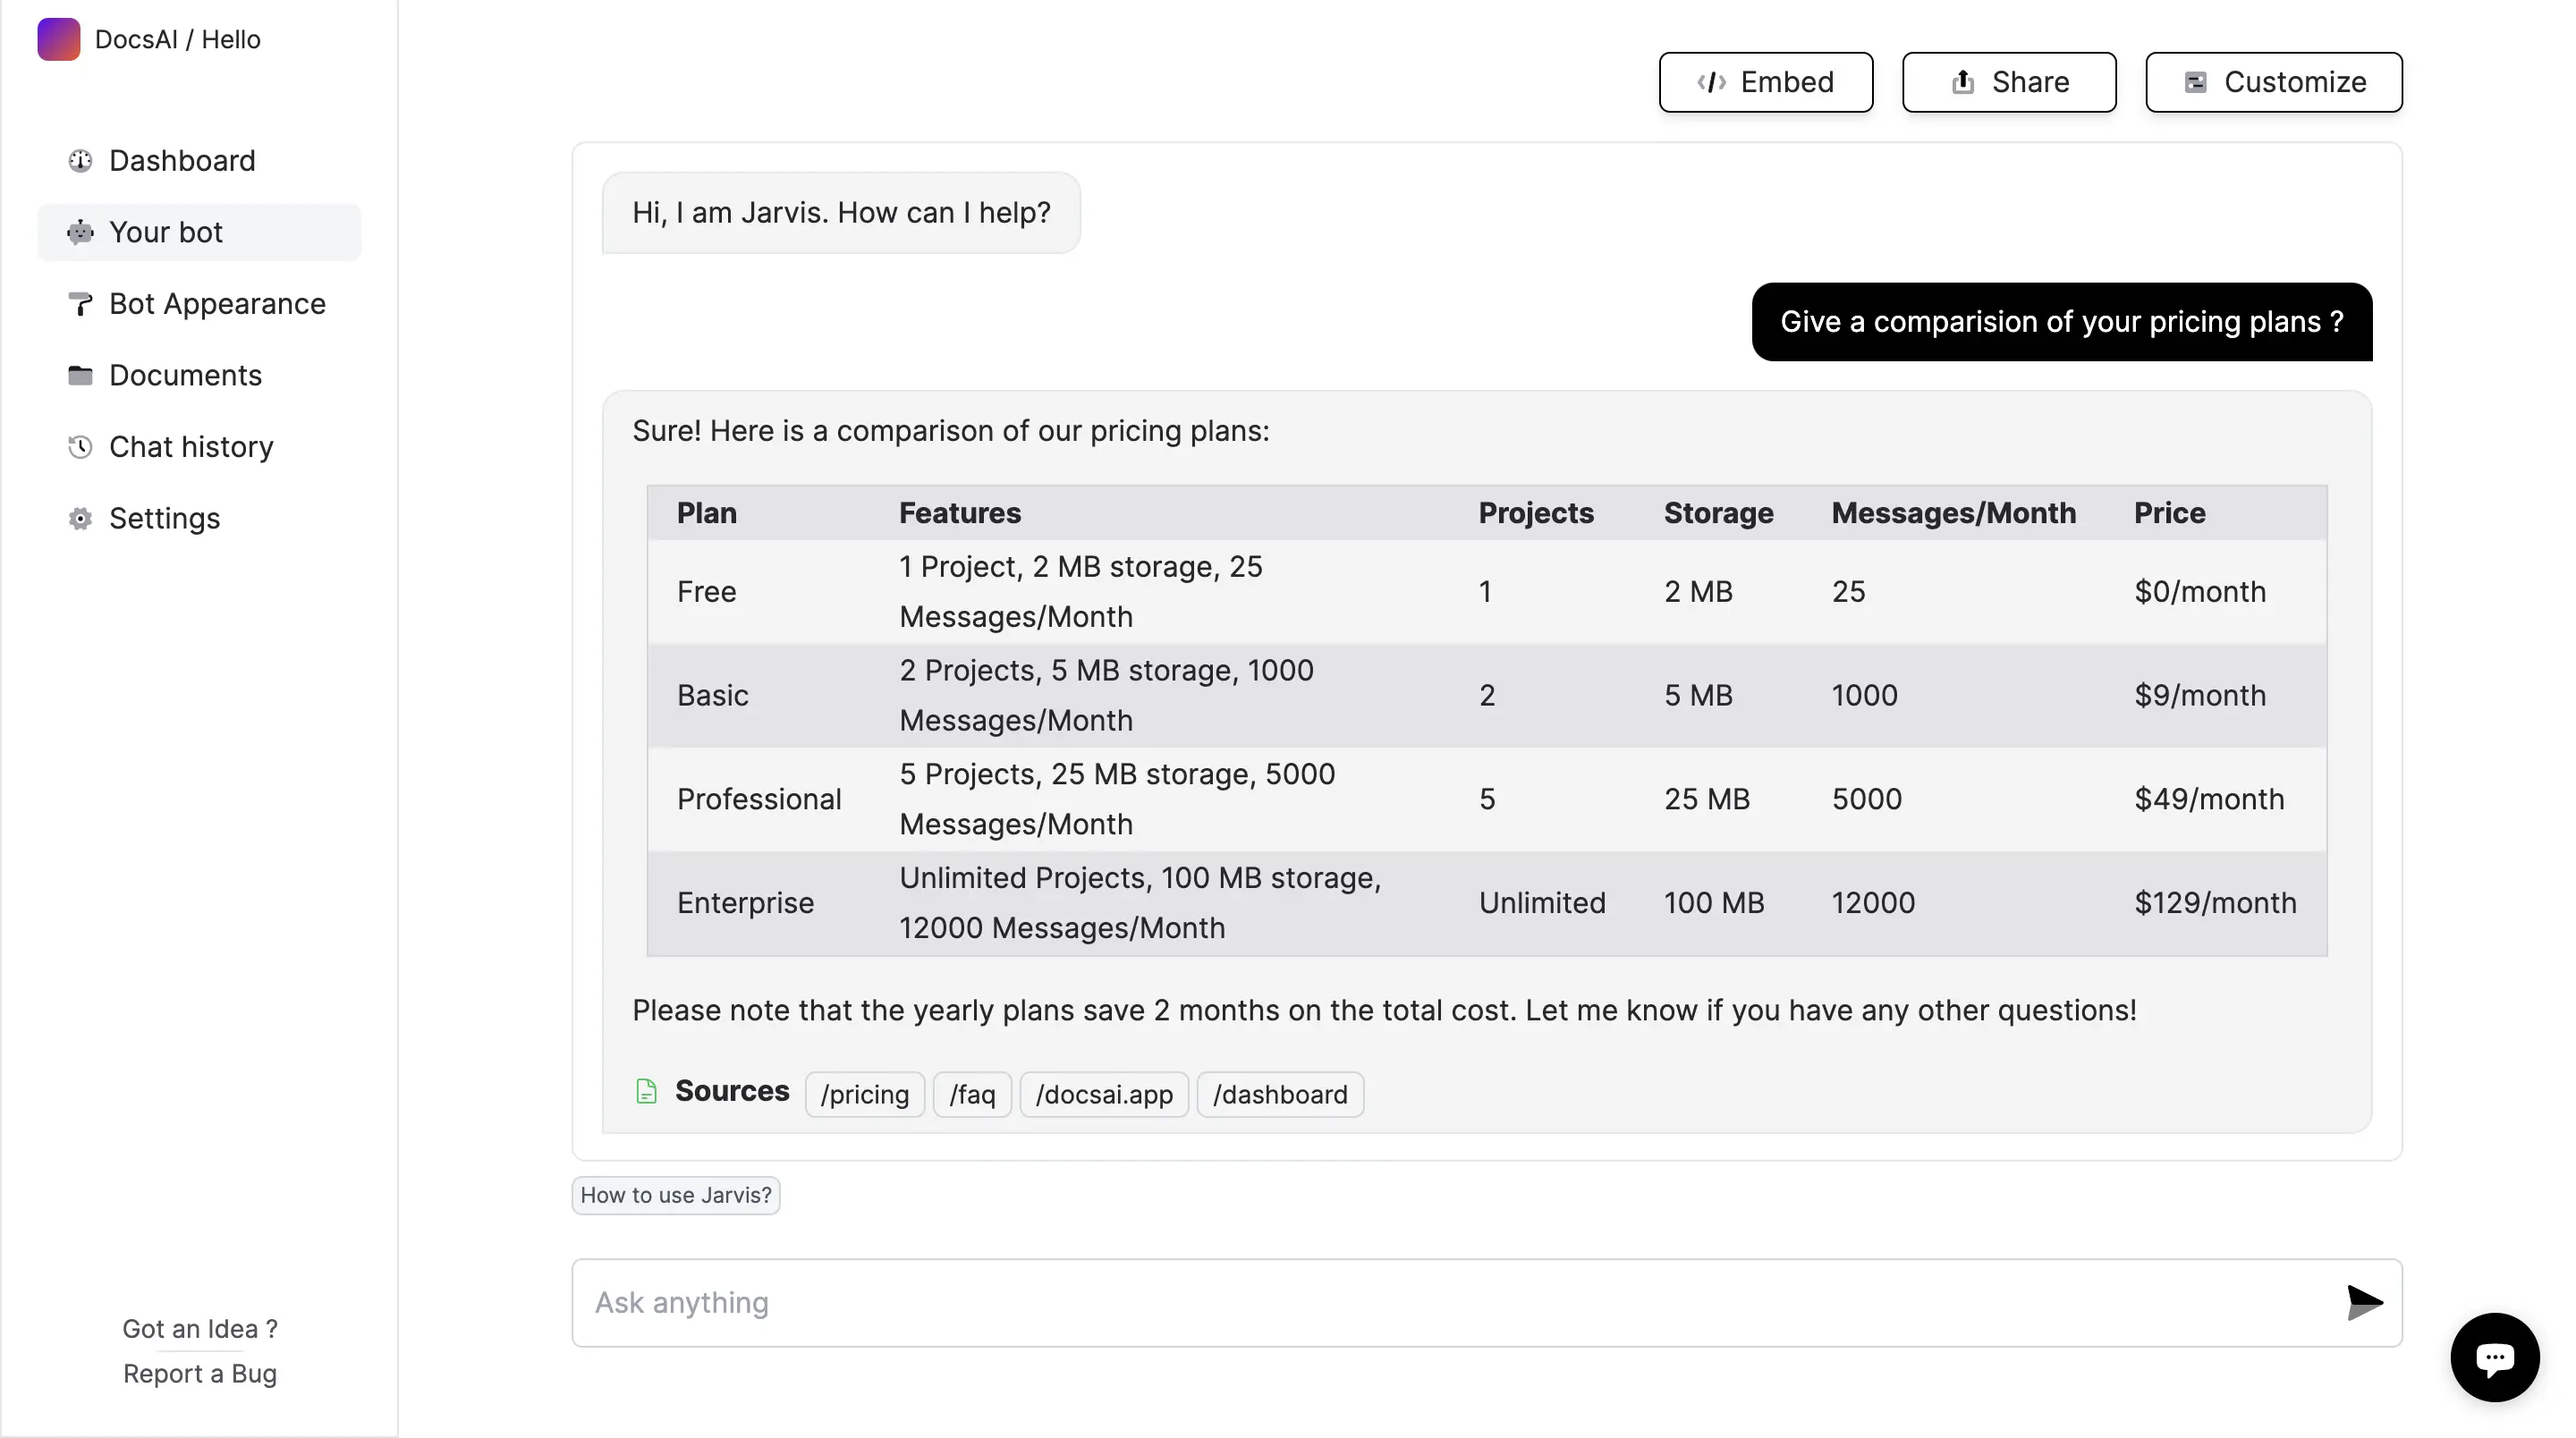
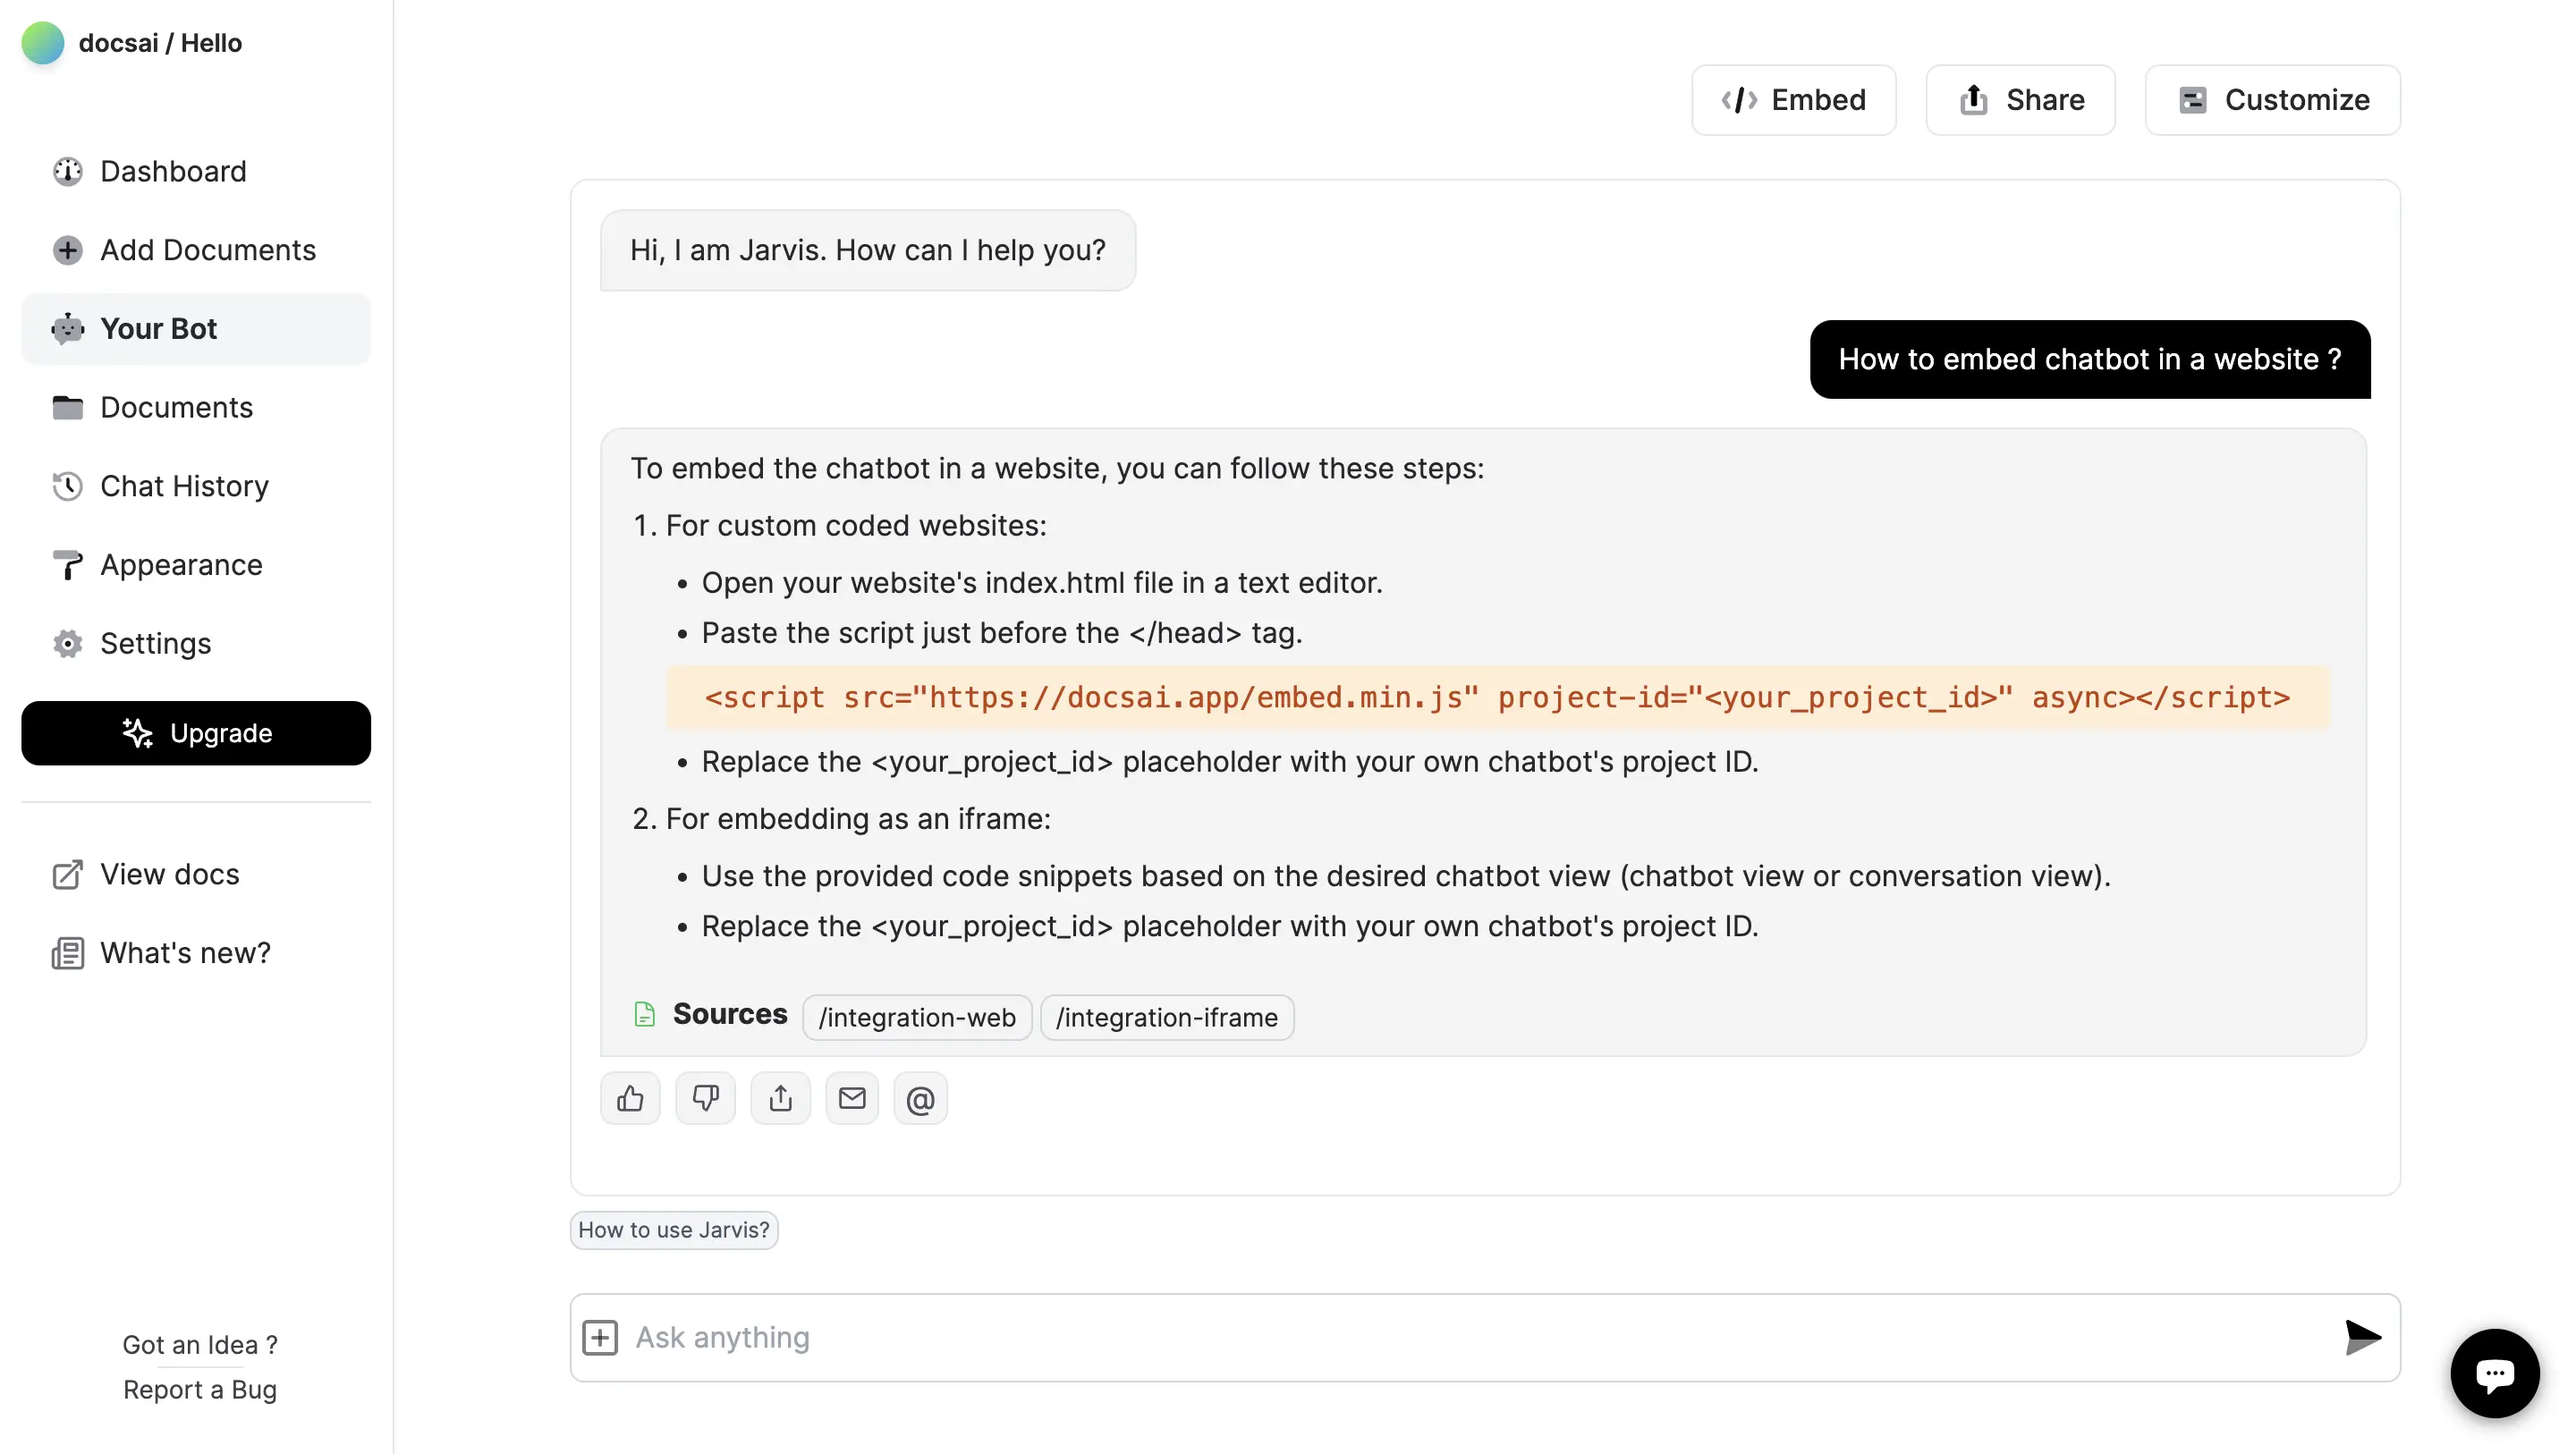
Add - Upgrade button

diff --git a/app/src/containers/Nav/AppNav.tsx b/app/src/containers/Nav/AppNav.tsx
@@ -1,10 +1,10 @@
 import { type Project, type Org } from "@prisma/client"
-import { Newspaper } from "lucide-react"
+import { Newspaper, Sparkles } from "lucide-react"
 import { type User } from "next-auth"
 import Link from "next/link"
 import { useRouter } from "next/router"
 import Avatar from "~/components/Avatar"
-import { SecondaryButton } from "~/components/form/button"
+import { CustomButton, SecondaryButton } from "~/components/form/button"
 import { IconAdd, IconBot, IconDashboard, IconFolderOpen, IconHistory, IconLink, IconPaintBrush, IconSettings, IconSubscription } from "~/components/icons/icons"
 
 /**
@@ -83,13 +83,24 @@ const AppNav: React.FC<{ user: User, org: Org, project: Project }> = ({ user, or
           </SecondaryButton>
           </Link>
 
-          <Link href={`/dashboard/${org.name}/subscription`} className="w-full" tabIndex={-1}>
-            <SecondaryButton className={`border-0  text-left w-full shadow-none  focus:bg-gray-100  flex  gap-2 items-center  `}>
-              <IconSubscription className="h-5 w-5" />
-              <span className="hidden lg:block">
-                Subscription </span>
-            </SecondaryButton>
-          </Link>
+          {
+            org.plan !== 'FREE' ?
+              <Link href={`/dashboard/${org.name}/subscription`} className="w-full mt-2" tabIndex={-1}>
+                <CustomButton className={`bg-slate-100 border text-slate-900 font-medium  text-sm w-full  text-left flex items-center gap-2`}>
+                  <Sparkles className="h-5 w-5" />
+                  <span className="hidden lg:block">
+                    View plan  </span>
+                </CustomButton>
+              </Link>
+              :
+              <Link href={`/dashboard/${org.name}/subscription`} className="w-full mt-2" tabIndex={-1}>
+                <CustomButton className={`bg-slate-900  text-sm w-full text-white text-left flex items-center gap-2`}>
+                  <Sparkles className="h-5 w-5" />
+                  <span className="hidden lg:block">
+                    Upgrade  </span>
+                </CustomButton>
+              </Link>
+          }
           <hr className="my-4"></hr>
 
           <Link href={`/docs/getting-started`} className="w-full" tabIndex={-1} target="_blank">

diff --git a/app/src/containers/Chat/Chat.tsx b/app/src/containers/Chat/Chat.tsx
@@ -15,7 +15,7 @@ import { getContrastColor } from "~/utils/color";
 import { IconEmail, IconFastForward, IconSend, IconThumb } from "~/components/icons/icons";
 import { toast } from "react-hot-toast";
 import { Input } from "~/components/form/input";
-import { Paintbrush, ShareIcon } from "lucide-react";
+import { PlusSquare, ShareIcon } from "lucide-react";
 import {
   Tooltip,
   TooltipContent,
@@ -372,7 +372,7 @@ export const ChatBox: React.FC<{ org: Org, project: Project, isPublic?: boolean,
                 <TooltipTrigger asChild>
                   <button type="reset" className={`"px-1 py-0.5 rounded-md disabled:text-gray-200 text-gray-500" + ${embed ? 'hidden' : ''}`} disabled={Boolean(answer || latestQuestion)}
                     onClick={onResetChat} accessKey="r">
-                    <Paintbrush className="w-6 h-6 stroke-[var(--chat-secondary-color)]" />
+                    <PlusSquare className="w-6 h-6 stroke-[var(--chat-secondary-color)]" />
                   </button>
                 </TooltipTrigger>
                 <TooltipContent>

diff --git a/app/src/pages/_app.tsx b/app/src/pages/_app.tsx
@@ -45,7 +45,7 @@ const MyApp: AppType<{ session: Session | null }> = ({
         {showChatBotIcon && env.NEXT_PUBLIC_NODE_ENV === "production" ? (
           <script src="/embed.min.js" project-id="clfp5tn2a0007mc0ub8qch4x2" version-number="2" async></script>
         ) : showChatBotIcon && env.NEXT_PUBLIC_NODE_ENV !== "production" ? (
-            <script src="/embed.js" project-id="clsytvox500071jsq5xar24e1" version-number="2" docs-url="http://192.168.1.9:3000" async></script>
+            <script src="/embed.js" project-id="clszlhcir001n1j5093d3ufkl" version-number="2" docs-url="http://192.168.1.9:3000" async></script>
         ) : null}
       </Head>
       <Toaster position="bottom-center" />

diff --git a/app/src/components/form/button.tsx b/app/src/components/form/button.tsx
@@ -24,7 +24,7 @@ export default PrimaryButton
 export const CustomButton: React.FC<PrimaryButtonProps> = ({ children, className, loading, ...rest }) => {
 
   return (
-    <button className={classNames('min-w-[120px]  flex justify-center px-4 py-2   rounded-lg items-center  duration-200 ', className)} {...rest}>
+    <button className={classNames('px-1.5 lg:min-w-[120px]  flex justify-center lg:px-4 py-2   rounded-lg items-center  duration-200 ', className)} {...rest}>
       {loading ? <Loading /> : children}
     </button>
   )
